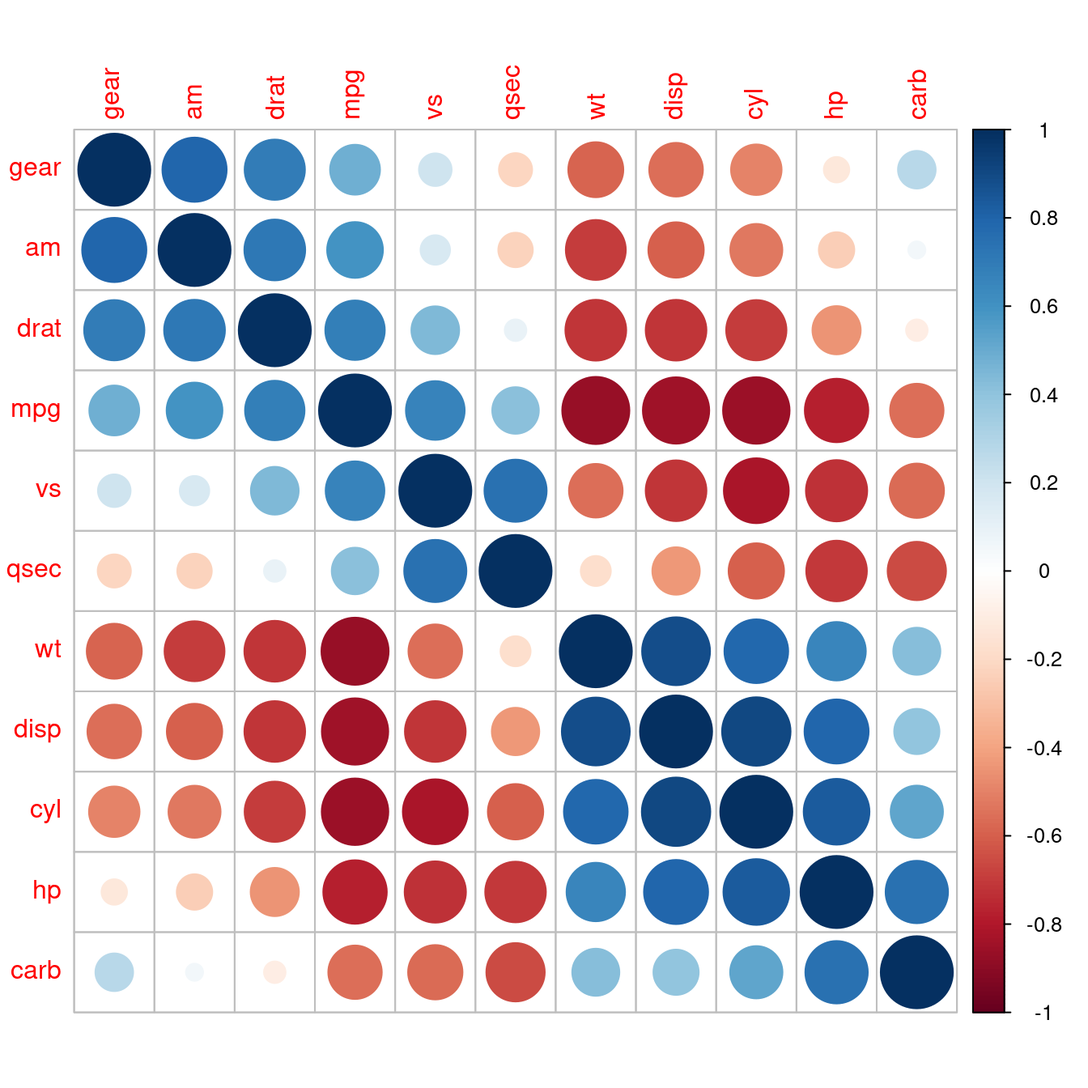
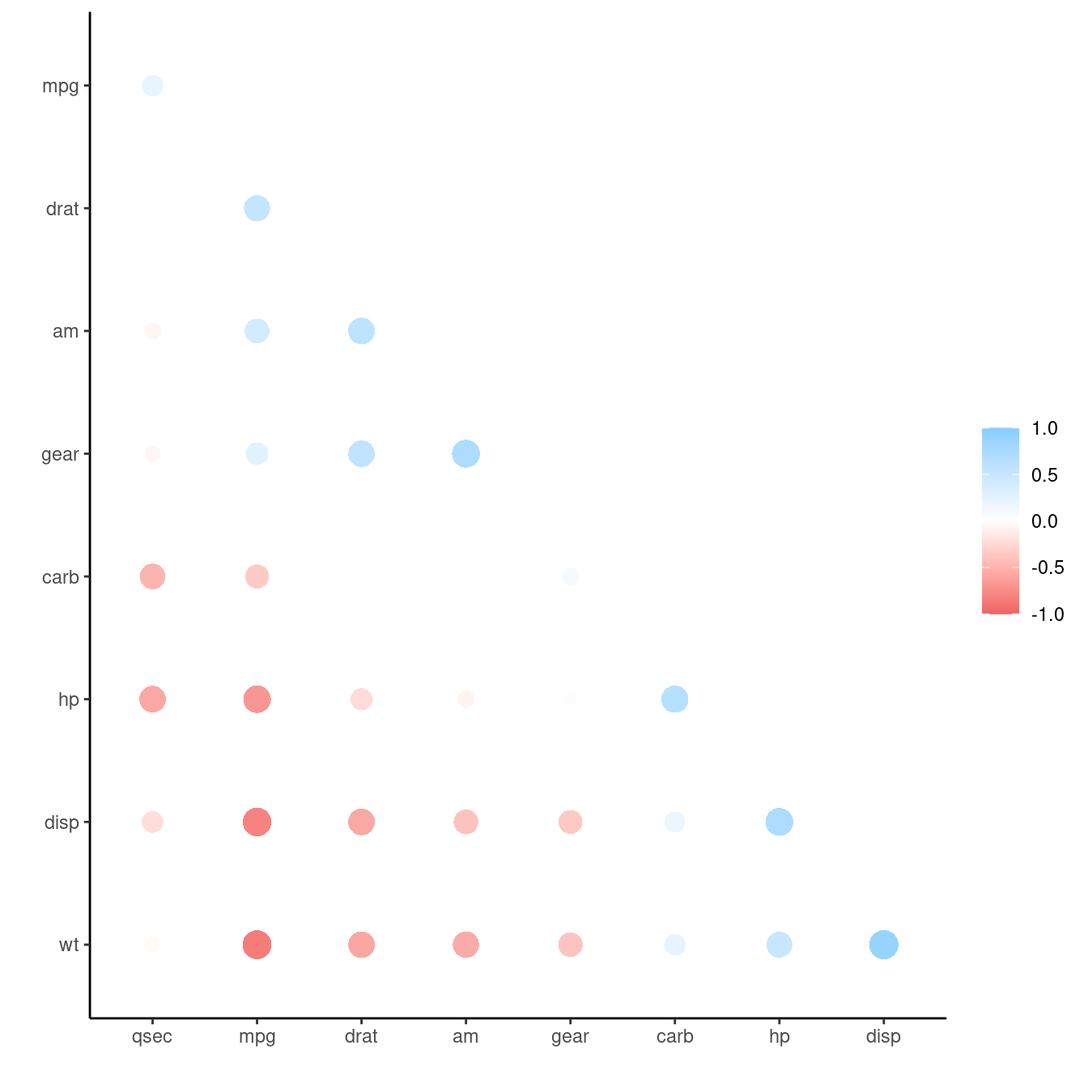
added ggplot2,

diff --git a/docs/correlation_matrix.html b/docs/correlation_matrix.html
@@ -157,8 +157,8 @@ pre > code.sourceCode > span > a:first-child::before { text-decoration: underlin
 <span id="cb3-4"><a href="#cb3-4" aria-hidden="true" tabindex="-1"></a>DT<span class="sc">::</span><span class="fu">datatable</span>(mtcars)</span></code><button title="Copy to Clipboard" class="code-copy-button"><i class="bi"></i></button></pre></div>
 <div class="cell-output-display">
 
-<div class="datatables html-widget html-fill-item-overflow-hidden html-fill-item" id="htmlwidget-3c622cee3f989f68be51" style="width:100%;height:auto;"></div>
-<script type="application/json" data-for="htmlwidget-3c622cee3f989f68be51">{"x":{"filter":"none","vertical":false,"data":[["Mazda RX4","Mazda RX4 Wag","Datsun 710","Hornet 4 Drive","Hornet Sportabout","Valiant","Duster 360","Merc 240D","Merc 230","Merc 280","Merc 280C","Merc 450SE","Merc 450SL","Merc 450SLC","Cadillac Fleetwood","Lincoln Continental","Chrysler Imperial","Fiat 128","Honda Civic","Toyota Corolla","Toyota Corona","Dodge Challenger","AMC Javelin","Camaro Z28","Pontiac Firebird","Fiat X1-9","Porsche 914-2","Lotus Europa","Ford Pantera L","Ferrari Dino","Maserati Bora","Volvo 142E"],[21,21,22.8,21.4,18.7,18.1,14.3,24.4,22.8,19.2,17.8,16.4,17.3,15.2,10.4,10.4,14.7,32.4,30.4,33.9,21.5,15.5,15.2,13.3,19.2,27.3,26,30.4,15.8,19.7,15,21.4],[6,6,4,6,8,6,8,4,4,6,6,8,8,8,8,8,8,4,4,4,4,8,8,8,8,4,4,4,8,6,8,4],[160,160,108,258,360,225,360,146.7,140.8,167.6,167.6,275.8,275.8,275.8,472,460,440,78.7,75.7,71.09999999999999,120.1,318,304,350,400,79,120.3,95.09999999999999,351,145,301,121],[110,110,93,110,175,105,245,62,95,123,123,180,180,180,205,215,230,66,52,65,97,150,150,245,175,66,91,113,264,175,335,109],[3.9,3.9,3.85,3.08,3.15,2.76,3.21,3.69,3.92,3.92,3.92,3.07,3.07,3.07,2.93,3,3.23,4.08,4.93,4.22,3.7,2.76,3.15,3.73,3.08,4.08,4.43,3.77,4.22,3.62,3.54,4.11],[2.62,2.875,2.32,3.215,3.44,3.46,3.57,3.19,3.15,3.44,3.44,4.07,3.73,3.78,5.25,5.424,5.345,2.2,1.615,1.835,2.465,3.52,3.435,3.84,3.845,1.935,2.14,1.513,3.17,2.77,3.57,2.78],[16.46,17.02,18.61,19.44,17.02,20.22,15.84,20,22.9,18.3,18.9,17.4,17.6,18,17.98,17.82,17.42,19.47,18.52,19.9,20.01,16.87,17.3,15.41,17.05,18.9,16.7,16.9,14.5,15.5,14.6,18.6],[0,0,1,1,0,1,0,1,1,1,1,0,0,0,0,0,0,1,1,1,1,0,0,0,0,1,0,1,0,0,0,1],[1,1,1,0,0,0,0,0,0,0,0,0,0,0,0,0,0,1,1,1,0,0,0,0,0,1,1,1,1,1,1,1],[4,4,4,3,3,3,3,4,4,4,4,3,3,3,3,3,3,4,4,4,3,3,3,3,3,4,5,5,5,5,5,4],[4,4,1,1,2,1,4,2,2,4,4,3,3,3,4,4,4,1,2,1,1,2,2,4,2,1,2,2,4,6,8,2]],"container":"<table class=\"display\">\n  <thead>\n    <tr>\n      <th> <\/th>\n      <th>mpg<\/th>\n      <th>cyl<\/th>\n      <th>disp<\/th>\n      <th>hp<\/th>\n      <th>drat<\/th>\n      <th>wt<\/th>\n      <th>qsec<\/th>\n      <th>vs<\/th>\n      <th>am<\/th>\n      <th>gear<\/th>\n      <th>carb<\/th>\n    <\/tr>\n  <\/thead>\n<\/table>","options":{"columnDefs":[{"className":"dt-right","targets":[1,2,3,4,5,6,7,8,9,10,11]},{"orderable":false,"targets":0}],"order":[],"autoWidth":false,"orderClasses":false}},"evals":[],"jsHooks":[]}</script>
+<div class="datatables html-widget html-fill-item-overflow-hidden html-fill-item" id="htmlwidget-ed4ffe098db7ba245312" style="width:100%;height:auto;"></div>
+<script type="application/json" data-for="htmlwidget-ed4ffe098db7ba245312">{"x":{"filter":"none","vertical":false,"data":[["Mazda RX4","Mazda RX4 Wag","Datsun 710","Hornet 4 Drive","Hornet Sportabout","Valiant","Duster 360","Merc 240D","Merc 230","Merc 280","Merc 280C","Merc 450SE","Merc 450SL","Merc 450SLC","Cadillac Fleetwood","Lincoln Continental","Chrysler Imperial","Fiat 128","Honda Civic","Toyota Corolla","Toyota Corona","Dodge Challenger","AMC Javelin","Camaro Z28","Pontiac Firebird","Fiat X1-9","Porsche 914-2","Lotus Europa","Ford Pantera L","Ferrari Dino","Maserati Bora","Volvo 142E"],[21,21,22.8,21.4,18.7,18.1,14.3,24.4,22.8,19.2,17.8,16.4,17.3,15.2,10.4,10.4,14.7,32.4,30.4,33.9,21.5,15.5,15.2,13.3,19.2,27.3,26,30.4,15.8,19.7,15,21.4],[6,6,4,6,8,6,8,4,4,6,6,8,8,8,8,8,8,4,4,4,4,8,8,8,8,4,4,4,8,6,8,4],[160,160,108,258,360,225,360,146.7,140.8,167.6,167.6,275.8,275.8,275.8,472,460,440,78.7,75.7,71.09999999999999,120.1,318,304,350,400,79,120.3,95.09999999999999,351,145,301,121],[110,110,93,110,175,105,245,62,95,123,123,180,180,180,205,215,230,66,52,65,97,150,150,245,175,66,91,113,264,175,335,109],[3.9,3.9,3.85,3.08,3.15,2.76,3.21,3.69,3.92,3.92,3.92,3.07,3.07,3.07,2.93,3,3.23,4.08,4.93,4.22,3.7,2.76,3.15,3.73,3.08,4.08,4.43,3.77,4.22,3.62,3.54,4.11],[2.62,2.875,2.32,3.215,3.44,3.46,3.57,3.19,3.15,3.44,3.44,4.07,3.73,3.78,5.25,5.424,5.345,2.2,1.615,1.835,2.465,3.52,3.435,3.84,3.845,1.935,2.14,1.513,3.17,2.77,3.57,2.78],[16.46,17.02,18.61,19.44,17.02,20.22,15.84,20,22.9,18.3,18.9,17.4,17.6,18,17.98,17.82,17.42,19.47,18.52,19.9,20.01,16.87,17.3,15.41,17.05,18.9,16.7,16.9,14.5,15.5,14.6,18.6],[0,0,1,1,0,1,0,1,1,1,1,0,0,0,0,0,0,1,1,1,1,0,0,0,0,1,0,1,0,0,0,1],[1,1,1,0,0,0,0,0,0,0,0,0,0,0,0,0,0,1,1,1,0,0,0,0,0,1,1,1,1,1,1,1],[4,4,4,3,3,3,3,4,4,4,4,3,3,3,3,3,3,4,4,4,3,3,3,3,3,4,5,5,5,5,5,4],[4,4,1,1,2,1,4,2,2,4,4,3,3,3,4,4,4,1,2,1,1,2,2,4,2,1,2,2,4,6,8,2]],"container":"<table class=\"display\">\n  <thead>\n    <tr>\n      <th> <\/th>\n      <th>mpg<\/th>\n      <th>cyl<\/th>\n      <th>disp<\/th>\n      <th>hp<\/th>\n      <th>drat<\/th>\n      <th>wt<\/th>\n      <th>qsec<\/th>\n      <th>vs<\/th>\n      <th>am<\/th>\n      <th>gear<\/th>\n      <th>carb<\/th>\n    <\/tr>\n  <\/thead>\n<\/table>","options":{"columnDefs":[{"className":"dt-right","targets":[1,2,3,4,5,6,7,8,9,10,11]},{"orderable":false,"targets":0}],"order":[],"autoWidth":false,"orderClasses":false}},"evals":[],"jsHooks":[]}</script>
 </div>
 </div>
 <p>We calcualte a correlation matrix.</p>
@@ -214,24 +214,16 @@ carb -0.55  0.53  0.39  0.75 -0.09  0.43 -0.66 -0.57  0.06  0.27  1.00</code></p
 </div>
 </div>
 </div>
-</section>
-<section id="using-other-seriation-methods" class="level2">
-<h2 class="anchored" data-anchor-id="using-other-seriation-methods">Using other seriation methods</h2>
-<p>We can apply any seriation method for distances to create an order. First, we convert the correlation matrix into a distance matrix using <span class="math inline">\(d_{ij} = \sqrt{1 - m_{ij}}\)</span>. Then we can use the distances for seriation and use the resulting order to rearrange the rows and columns of the correlation matrix.</p>
+<p>The plots are also available in <code>ggplot2</code> versions.</p>
 <div>
-<div class="sourceCode cell-code" id="cb8"><pre class="sourceCode r code-with-copy"><code class="sourceCode r"><span id="cb8-1"><a href="#cb8-1" aria-hidden="true" tabindex="-1"></a>d <span class="ot">&lt;-</span> <span class="fu">as.dist</span>(<span class="fu">sqrt</span>(<span class="dv">1</span> <span class="sc">-</span> m))</span>
+<div class="sourceCode cell-code" id="cb8"><pre class="sourceCode r code-with-copy"><code class="sourceCode r"><span id="cb8-1"><a href="#cb8-1" aria-hidden="true" tabindex="-1"></a><span class="fu">library</span>(<span class="st">"ggplot2"</span>)</span>
 <span id="cb8-2"><a href="#cb8-2" aria-hidden="true" tabindex="-1"></a></span>
-<span id="cb8-3"><a href="#cb8-3" aria-hidden="true" tabindex="-1"></a>o <span class="ot">&lt;-</span> <span class="fu">seriate</span>(d, <span class="st">"MDS"</span>)</span>
-<span id="cb8-4"><a href="#cb8-4" aria-hidden="true" tabindex="-1"></a><span class="fu">pimage</span>(m , <span class="at">order =</span> <span class="fu">c</span>(o, o), <span class="at">main =</span> <span class="st">"MDS"</span>)</span>
-<span id="cb8-5"><a href="#cb8-5" aria-hidden="true" tabindex="-1"></a></span>
-<span id="cb8-6"><a href="#cb8-6" aria-hidden="true" tabindex="-1"></a>o <span class="ot">&lt;-</span> <span class="fu">seriate</span>(d, <span class="st">"ARSA"</span>)</span>
-<span id="cb8-7"><a href="#cb8-7" aria-hidden="true" tabindex="-1"></a><span class="fu">pimage</span>(m , <span class="at">order =</span> <span class="fu">c</span>(o, o), <span class="at">main =</span> <span class="st">"ARSA"</span>)</span>
-<span id="cb8-8"><a href="#cb8-8" aria-hidden="true" tabindex="-1"></a></span>
-<span id="cb8-9"><a href="#cb8-9" aria-hidden="true" tabindex="-1"></a>o <span class="ot">&lt;-</span> <span class="fu">seriate</span>(d, <span class="st">"OLO"</span>)</span>
-<span id="cb8-10"><a href="#cb8-10" aria-hidden="true" tabindex="-1"></a><span class="fu">pimage</span>(m , <span class="at">order =</span> <span class="fu">c</span>(o, o), <span class="at">main =</span> <span class="st">"OLO"</span>)</span>
-<span id="cb8-11"><a href="#cb8-11" aria-hidden="true" tabindex="-1"></a></span>
-<span id="cb8-12"><a href="#cb8-12" aria-hidden="true" tabindex="-1"></a>o <span class="ot">&lt;-</span> <span class="fu">seriate</span>(d, <span class="st">"R2E"</span>)</span>
-<span id="cb8-13"><a href="#cb8-13" aria-hidden="true" tabindex="-1"></a><span class="fu">pimage</span>(m , <span class="at">order =</span> <span class="fu">c</span>(o, o), <span class="at">main =</span> <span class="st">"R2E"</span>)</span></code><button title="Copy to Clipboard" class="code-copy-button"><i class="bi"></i></button></pre></div>
+<span id="cb8-3"><a href="#cb8-3" aria-hidden="true" tabindex="-1"></a><span class="fu">ggpimage</span>(m, <span class="at">order =</span> <span class="st">"AOE"</span>, <span class="at">diag =</span> <span class="cn">FALSE</span>, <span class="at">upper_tri =</span> <span class="cn">FALSE</span>)</span>
+<span id="cb8-4"><a href="#cb8-4" aria-hidden="true" tabindex="-1"></a><span class="fu">ggpimage</span>(m, <span class="at">order =</span> <span class="st">"AOE"</span>) <span class="sc">+</span> <span class="fu">scale_fill_gradient2</span>(<span class="at">low =</span> <span class="st">"red"</span>, <span class="at">high =</span> <span class="st">"darkgreen"</span>)</span></code><button title="Copy to Clipboard" class="code-copy-button"><i class="bi"></i></button></pre></div>
+<div class="cell-output cell-output-stderr">
+<pre><code>Scale for fill is already present.
+Adding another scale for fill, which will replace the existing scale.</code></pre>
+</div>
 <div class="cell quarto-layout-panel" data-fig.asp="1">
 <div class="quarto-layout-row quarto-layout-valign-top">
 <div class="cell-output-display quarto-layout-cell" style="flex-basis: 50.0%;justify-content: center;">
@@ -241,12 +233,41 @@ carb -0.55  0.53  0.39  0.75 -0.09  0.43 -0.66 -0.57  0.06  0.27  1.00</code></p
 <p><img src="correlation_matrix_files/figure-html/unnamed-chunk-5-2.png" class="img-fluid"></p>
 </div>
 </div>
+</div>
+</div>
+</section>
+<section id="using-other-seriation-methods" class="level2">
+<h2 class="anchored" data-anchor-id="using-other-seriation-methods">Using other seriation methods</h2>
+<p>We can apply any seriation method for distances to create an order. First, we convert the correlation matrix into a distance matrix using <span class="math inline">\(d_{ij} = \sqrt{1 - m_{ij}}\)</span>. Then we can use the distances for seriation and use the resulting order to rearrange the rows and columns of the correlation matrix.</p>
+<div>
+<div class="sourceCode cell-code" id="cb10"><pre class="sourceCode r code-with-copy"><code class="sourceCode r"><span id="cb10-1"><a href="#cb10-1" aria-hidden="true" tabindex="-1"></a>d <span class="ot">&lt;-</span> <span class="fu">as.dist</span>(<span class="fu">sqrt</span>(<span class="dv">1</span> <span class="sc">-</span> m))</span>
+<span id="cb10-2"><a href="#cb10-2" aria-hidden="true" tabindex="-1"></a></span>
+<span id="cb10-3"><a href="#cb10-3" aria-hidden="true" tabindex="-1"></a>o <span class="ot">&lt;-</span> <span class="fu">seriate</span>(d, <span class="st">"MDS"</span>)</span>
+<span id="cb10-4"><a href="#cb10-4" aria-hidden="true" tabindex="-1"></a><span class="fu">pimage</span>(m , <span class="at">order =</span> <span class="fu">c</span>(o, o), <span class="at">main =</span> <span class="st">"MDS"</span>)</span>
+<span id="cb10-5"><a href="#cb10-5" aria-hidden="true" tabindex="-1"></a></span>
+<span id="cb10-6"><a href="#cb10-6" aria-hidden="true" tabindex="-1"></a>o <span class="ot">&lt;-</span> <span class="fu">seriate</span>(d, <span class="st">"ARSA"</span>)</span>
+<span id="cb10-7"><a href="#cb10-7" aria-hidden="true" tabindex="-1"></a><span class="fu">pimage</span>(m , <span class="at">order =</span> <span class="fu">c</span>(o, o), <span class="at">main =</span> <span class="st">"ARSA"</span>)</span>
+<span id="cb10-8"><a href="#cb10-8" aria-hidden="true" tabindex="-1"></a></span>
+<span id="cb10-9"><a href="#cb10-9" aria-hidden="true" tabindex="-1"></a>o <span class="ot">&lt;-</span> <span class="fu">seriate</span>(d, <span class="st">"OLO"</span>)</span>
+<span id="cb10-10"><a href="#cb10-10" aria-hidden="true" tabindex="-1"></a><span class="fu">pimage</span>(m , <span class="at">order =</span> <span class="fu">c</span>(o, o), <span class="at">main =</span> <span class="st">"OLO"</span>)</span>
+<span id="cb10-11"><a href="#cb10-11" aria-hidden="true" tabindex="-1"></a></span>
+<span id="cb10-12"><a href="#cb10-12" aria-hidden="true" tabindex="-1"></a>o <span class="ot">&lt;-</span> <span class="fu">seriate</span>(d, <span class="st">"R2E"</span>)</span>
+<span id="cb10-13"><a href="#cb10-13" aria-hidden="true" tabindex="-1"></a><span class="fu">pimage</span>(m , <span class="at">order =</span> <span class="fu">c</span>(o, o), <span class="at">main =</span> <span class="st">"R2E"</span>)</span></code><button title="Copy to Clipboard" class="code-copy-button"><i class="bi"></i></button></pre></div>
+<div class="cell quarto-layout-panel" data-fig.asp="1">
 <div class="quarto-layout-row quarto-layout-valign-top">
 <div class="cell-output-display quarto-layout-cell" style="flex-basis: 50.0%;justify-content: center;">
-<p><img src="correlation_matrix_files/figure-html/unnamed-chunk-5-3.png" class="img-fluid"></p>
+<p><img src="correlation_matrix_files/figure-html/unnamed-chunk-6-1.png" class="img-fluid"></p>
 </div>
 <div class="cell-output-display quarto-layout-cell" style="flex-basis: 50.0%;justify-content: center;">
-<p><img src="correlation_matrix_files/figure-html/unnamed-chunk-5-4.png" class="img-fluid"></p>
+<p><img src="correlation_matrix_files/figure-html/unnamed-chunk-6-2.png" class="img-fluid"></p>
+</div>
+</div>
+<div class="quarto-layout-row quarto-layout-valign-top">
+<div class="cell-output-display quarto-layout-cell" style="flex-basis: 50.0%;justify-content: center;">
+<p><img src="correlation_matrix_files/figure-html/unnamed-chunk-6-3.png" class="img-fluid"></p>
+</div>
+<div class="cell-output-display quarto-layout-cell" style="flex-basis: 50.0%;justify-content: center;">
+<p><img src="correlation_matrix_files/figure-html/unnamed-chunk-6-4.png" class="img-fluid"></p>
 </div>
 </div>
 </div>
@@ -259,21 +280,21 @@ carb -0.55  0.53  0.39  0.75 -0.09  0.43 -0.66 -0.57  0.06  0.27  1.00</code></p
 <h3 class="anchored" data-anchor-id="package-corrgram">Package corrgram</h3>
 <p>The order argument in <a href="https://kwstat.github.io/corrgram/">corrgram</a> accepts methods from package seriation.</p>
 <div>
-<div class="sourceCode cell-code" id="cb9"><pre class="sourceCode r code-with-copy"><code class="sourceCode r"><span id="cb9-1"><a href="#cb9-1" aria-hidden="true" tabindex="-1"></a><span class="cf">if</span> (<span class="sc">!</span><span class="fu">require</span>(<span class="st">"corrgram"</span>)) <span class="fu">install.packages</span>(<span class="st">"corrgram"</span>)</span></code><button title="Copy to Clipboard" class="code-copy-button"><i class="bi"></i></button></pre></div>
+<div class="sourceCode cell-code" id="cb11"><pre class="sourceCode r code-with-copy"><code class="sourceCode r"><span id="cb11-1"><a href="#cb11-1" aria-hidden="true" tabindex="-1"></a><span class="cf">if</span> (<span class="sc">!</span><span class="fu">require</span>(<span class="st">"corrgram"</span>)) <span class="fu">install.packages</span>(<span class="st">"corrgram"</span>)</span></code><button title="Copy to Clipboard" class="code-copy-button"><i class="bi"></i></button></pre></div>
 <div class="cell-output cell-output-stderr">
 <pre><code>Loading required package: corrgram</code></pre>
 </div>
-<div class="sourceCode cell-code" id="cb11"><pre class="sourceCode r code-with-copy"><code class="sourceCode r"><span id="cb11-1"><a href="#cb11-1" aria-hidden="true" tabindex="-1"></a><span class="fu">library</span>(<span class="st">"corrgram"</span>)</span>
-<span id="cb11-2"><a href="#cb11-2" aria-hidden="true" tabindex="-1"></a></span>
-<span id="cb11-3"><a href="#cb11-3" aria-hidden="true" tabindex="-1"></a><span class="fu">corrgram</span>(m, <span class="at">order =</span> <span class="st">"OLO"</span>)</span>
-<span id="cb11-4"><a href="#cb11-4" aria-hidden="true" tabindex="-1"></a><span class="fu">corrgram</span>(m, <span class="at">order =</span> <span class="st">"OLO"</span>, <span class="at">lower.panel=</span>panel.shade, <span class="at">upper.panel=</span>panel.pie)</span></code><button title="Copy to Clipboard" class="code-copy-button"><i class="bi"></i></button></pre></div>
+<div class="sourceCode cell-code" id="cb13"><pre class="sourceCode r code-with-copy"><code class="sourceCode r"><span id="cb13-1"><a href="#cb13-1" aria-hidden="true" tabindex="-1"></a><span class="fu">library</span>(<span class="st">"corrgram"</span>)</span>
+<span id="cb13-2"><a href="#cb13-2" aria-hidden="true" tabindex="-1"></a></span>
+<span id="cb13-3"><a href="#cb13-3" aria-hidden="true" tabindex="-1"></a><span class="fu">corrgram</span>(m, <span class="at">order =</span> <span class="st">"OLO"</span>)</span>
+<span id="cb13-4"><a href="#cb13-4" aria-hidden="true" tabindex="-1"></a><span class="fu">corrgram</span>(m, <span class="at">order =</span> <span class="st">"OLO"</span>, <span class="at">lower.panel=</span>panel.shade, <span class="at">upper.panel=</span>panel.pie)</span></code><button title="Copy to Clipboard" class="code-copy-button"><i class="bi"></i></button></pre></div>
 <div class="cell quarto-layout-panel" data-fig.asp="1">
 <div class="quarto-layout-row quarto-layout-valign-top">
 <div class="cell-output-display quarto-layout-cell" style="flex-basis: 50.0%;justify-content: center;">
-<p><img src="correlation_matrix_files/figure-html/unnamed-chunk-6-1.png" class="img-fluid"></p>
+<p><img src="correlation_matrix_files/figure-html/unnamed-chunk-7-1.png" class="img-fluid"></p>
 </div>
 <div class="cell-output-display quarto-layout-cell" style="flex-basis: 50.0%;justify-content: center;">
-<p><img src="correlation_matrix_files/figure-html/unnamed-chunk-6-2.png" class="img-fluid"></p>
+<p><img src="correlation_matrix_files/figure-html/unnamed-chunk-7-2.png" class="img-fluid"></p>
 </div>
 </div>
 </div>
@@ -283,27 +304,27 @@ carb -0.55  0.53  0.39  0.75 -0.09  0.43 -0.66 -0.57  0.06  0.27  1.00</code></p
 <h3 class="anchored" data-anchor-id="package-corrr">Package corrr</h3>
 <p>The function <code>rearrange()</code> in package <a href="https://corrr.tidymodels.org/">corrr</a> accepts some methods from seriation. Here is a complete example that uses method <code>"R2E"</code>.</p>
 <div class="cell" data-layout-align="center" data-fig.asp="1">
-<div class="sourceCode cell-code" id="cb12"><pre class="sourceCode r code-with-copy"><code class="sourceCode r"><span id="cb12-1"><a href="#cb12-1" aria-hidden="true" tabindex="-1"></a><span class="cf">if</span> (<span class="sc">!</span><span class="fu">require</span>(<span class="st">"corrr"</span>)) <span class="fu">install.packages</span>(<span class="st">"corrr"</span>)</span></code><button title="Copy to Clipboard" class="code-copy-button"><i class="bi"></i></button></pre></div>
+<div class="sourceCode cell-code" id="cb14"><pre class="sourceCode r code-with-copy"><code class="sourceCode r"><span id="cb14-1"><a href="#cb14-1" aria-hidden="true" tabindex="-1"></a><span class="cf">if</span> (<span class="sc">!</span><span class="fu">require</span>(<span class="st">"corrr"</span>)) <span class="fu">install.packages</span>(<span class="st">"corrr"</span>)</span></code><button title="Copy to Clipboard" class="code-copy-button"><i class="bi"></i></button></pre></div>
 <div class="cell-output cell-output-stderr">
 <pre><code>Loading required package: corrr</code></pre>
 </div>
-<div class="sourceCode cell-code" id="cb14"><pre class="sourceCode r code-with-copy"><code class="sourceCode r"><span id="cb14-1"><a href="#cb14-1" aria-hidden="true" tabindex="-1"></a><span class="fu">library</span>(<span class="st">"corrr"</span>)</span>
-<span id="cb14-2"><a href="#cb14-2" aria-hidden="true" tabindex="-1"></a></span>
-<span id="cb14-3"><a href="#cb14-3" aria-hidden="true" tabindex="-1"></a>x <span class="ot">&lt;-</span> datasets<span class="sc">::</span>mtcars <span class="sc">|&gt;</span></span>
-<span id="cb14-4"><a href="#cb14-4" aria-hidden="true" tabindex="-1"></a>       <span class="fu">correlate</span>() <span class="sc">|&gt;</span>   </span>
-<span id="cb14-5"><a href="#cb14-5" aria-hidden="true" tabindex="-1"></a>       <span class="fu">focus</span>(<span class="sc">-</span>cyl, <span class="sc">-</span>vs, <span class="at">mirror =</span> <span class="cn">TRUE</span>) <span class="sc">|&gt;</span>  <span class="co"># remove 'cyl' and 'vs'</span></span>
-<span id="cb14-6"><a href="#cb14-6" aria-hidden="true" tabindex="-1"></a>       <span class="fu">rearrange</span>(<span class="at">method =</span> <span class="st">"R2E"</span>) <span class="sc">|&gt;</span>  </span>
-<span id="cb14-7"><a href="#cb14-7" aria-hidden="true" tabindex="-1"></a>       <span class="fu">shave</span>()</span></code><button title="Copy to Clipboard" class="code-copy-button"><i class="bi"></i></button></pre></div>
+<div class="sourceCode cell-code" id="cb16"><pre class="sourceCode r code-with-copy"><code class="sourceCode r"><span id="cb16-1"><a href="#cb16-1" aria-hidden="true" tabindex="-1"></a><span class="fu">library</span>(<span class="st">"corrr"</span>)</span>
+<span id="cb16-2"><a href="#cb16-2" aria-hidden="true" tabindex="-1"></a></span>
+<span id="cb16-3"><a href="#cb16-3" aria-hidden="true" tabindex="-1"></a>x <span class="ot">&lt;-</span> datasets<span class="sc">::</span>mtcars <span class="sc">|&gt;</span></span>
+<span id="cb16-4"><a href="#cb16-4" aria-hidden="true" tabindex="-1"></a>       <span class="fu">correlate</span>() <span class="sc">|&gt;</span>   </span>
+<span id="cb16-5"><a href="#cb16-5" aria-hidden="true" tabindex="-1"></a>       <span class="fu">focus</span>(<span class="sc">-</span>cyl, <span class="sc">-</span>vs, <span class="at">mirror =</span> <span class="cn">TRUE</span>) <span class="sc">|&gt;</span>  <span class="co"># remove 'cyl' and 'vs'</span></span>
+<span id="cb16-6"><a href="#cb16-6" aria-hidden="true" tabindex="-1"></a>       <span class="fu">rearrange</span>(<span class="at">method =</span> <span class="st">"R2E"</span>) <span class="sc">|&gt;</span>  </span>
+<span id="cb16-7"><a href="#cb16-7" aria-hidden="true" tabindex="-1"></a>       <span class="fu">shave</span>()</span></code><button title="Copy to Clipboard" class="code-copy-button"><i class="bi"></i></button></pre></div>
 <div class="cell-output cell-output-stderr">
 <pre><code>Correlation computed with
 • Method: 'pearson'
 • Missing treated using: 'pairwise.complete.obs'</code></pre>
 </div>
-<div class="sourceCode cell-code" id="cb16"><pre class="sourceCode r code-with-copy"><code class="sourceCode r"><span id="cb16-1"><a href="#cb16-1" aria-hidden="true" tabindex="-1"></a><span class="fu">rplot</span>(x)</span></code><button title="Copy to Clipboard" class="code-copy-button"><i class="bi"></i></button></pre></div>
+<div class="sourceCode cell-code" id="cb18"><pre class="sourceCode r code-with-copy"><code class="sourceCode r"><span id="cb18-1"><a href="#cb18-1" aria-hidden="true" tabindex="-1"></a><span class="fu">rplot</span>(x)</span></code><button title="Copy to Clipboard" class="code-copy-button"><i class="bi"></i></button></pre></div>
 <div class="cell-output-display">
 <div class="quarto-figure quarto-figure-center">
 <figure class="figure">
-<p><img src="correlation_matrix_files/figure-html/unnamed-chunk-7-1.png" class="img-fluid figure-img" style="width:50.0%"></p>
+<p><img src="correlation_matrix_files/figure-html/unnamed-chunk-8-1.png" class="img-fluid figure-img" style="width:50.0%"></p>
 </figure>
 </div>
 </div>
@@ -313,24 +334,24 @@ carb -0.55  0.53  0.39  0.75 -0.09  0.43 -0.66 -0.57  0.06  0.27  1.00</code></p
 <h3 class="anchored" data-anchor-id="package-corrplot">Package corrplot</h3>
 <p>Package <a href="https://github.com/taiyun/corrplot">corrplot</a> offers many visualization methods. Orders from package seriation can be used by permuting the correlation matrix before it is passed to <code>corrplot()</code>.</p>
 <div class="cell" data-layout-align="center" data-fig.asp="1">
-<div class="sourceCode cell-code" id="cb17"><pre class="sourceCode r code-with-copy"><code class="sourceCode r"><span id="cb17-1"><a href="#cb17-1" aria-hidden="true" tabindex="-1"></a><span class="cf">if</span> (<span class="sc">!</span><span class="fu">require</span>(<span class="st">"corrplot"</span>)) <span class="fu">install.packages</span>(<span class="st">"corrplot"</span>)</span></code><button title="Copy to Clipboard" class="code-copy-button"><i class="bi"></i></button></pre></div>
+<div class="sourceCode cell-code" id="cb19"><pre class="sourceCode r code-with-copy"><code class="sourceCode r"><span id="cb19-1"><a href="#cb19-1" aria-hidden="true" tabindex="-1"></a><span class="cf">if</span> (<span class="sc">!</span><span class="fu">require</span>(<span class="st">"corrplot"</span>)) <span class="fu">install.packages</span>(<span class="st">"corrplot"</span>)</span></code><button title="Copy to Clipboard" class="code-copy-button"><i class="bi"></i></button></pre></div>
 <div class="cell-output cell-output-stderr">
 <pre><code>Loading required package: corrplot</code></pre>
 </div>
 <div class="cell-output cell-output-stderr">
 <pre><code>corrplot 0.92 loaded</code></pre>
 </div>
-<div class="sourceCode cell-code" id="cb20"><pre class="sourceCode r code-with-copy"><code class="sourceCode r"><span id="cb20-1"><a href="#cb20-1" aria-hidden="true" tabindex="-1"></a><span class="fu">library</span>(<span class="st">"corrplot"</span>)</span>
-<span id="cb20-2"><a href="#cb20-2" aria-hidden="true" tabindex="-1"></a></span>
-<span id="cb20-3"><a href="#cb20-3" aria-hidden="true" tabindex="-1"></a>d <span class="ot">&lt;-</span> <span class="fu">as.dist</span>(<span class="fu">sqrt</span>(<span class="dv">1</span> <span class="sc">-</span> m))</span>
-<span id="cb20-4"><a href="#cb20-4" aria-hidden="true" tabindex="-1"></a>o <span class="ot">&lt;-</span> <span class="fu">seriate</span>(d, <span class="st">"R2E"</span>)</span>
-<span id="cb20-5"><a href="#cb20-5" aria-hidden="true" tabindex="-1"></a>m_R2E <span class="ot">&lt;-</span> <span class="fu">permute</span>(m, <span class="fu">c</span>(o,o))</span>
-<span id="cb20-6"><a href="#cb20-6" aria-hidden="true" tabindex="-1"></a></span>
-<span id="cb20-7"><a href="#cb20-7" aria-hidden="true" tabindex="-1"></a><span class="fu">corrplot</span>(m_R2E , <span class="at">order =</span> <span class="st">"original"</span>)</span></code><button title="Copy to Clipboard" class="code-copy-button"><i class="bi"></i></button></pre></div>
+<div class="sourceCode cell-code" id="cb22"><pre class="sourceCode r code-with-copy"><code class="sourceCode r"><span id="cb22-1"><a href="#cb22-1" aria-hidden="true" tabindex="-1"></a><span class="fu">library</span>(<span class="st">"corrplot"</span>)</span>
+<span id="cb22-2"><a href="#cb22-2" aria-hidden="true" tabindex="-1"></a></span>
+<span id="cb22-3"><a href="#cb22-3" aria-hidden="true" tabindex="-1"></a>d <span class="ot">&lt;-</span> <span class="fu">as.dist</span>(<span class="fu">sqrt</span>(<span class="dv">1</span> <span class="sc">-</span> m))</span>
+<span id="cb22-4"><a href="#cb22-4" aria-hidden="true" tabindex="-1"></a>o <span class="ot">&lt;-</span> <span class="fu">seriate</span>(d, <span class="st">"R2E"</span>)</span>
+<span id="cb22-5"><a href="#cb22-5" aria-hidden="true" tabindex="-1"></a>m_R2E <span class="ot">&lt;-</span> <span class="fu">permute</span>(m, <span class="fu">c</span>(o,o))</span>
+<span id="cb22-6"><a href="#cb22-6" aria-hidden="true" tabindex="-1"></a></span>
+<span id="cb22-7"><a href="#cb22-7" aria-hidden="true" tabindex="-1"></a><span class="fu">corrplot</span>(m_R2E , <span class="at">order =</span> <span class="st">"original"</span>)</span></code><button title="Copy to Clipboard" class="code-copy-button"><i class="bi"></i></button></pre></div>
 <div class="cell-output-display">
 <div class="quarto-figure quarto-figure-center">
 <figure class="figure">
-<p><img src="correlation_matrix_files/figure-html/unnamed-chunk-8-1.png" class="img-fluid figure-img" style="width:50.0%"></p>
+<p><img src="correlation_matrix_files/figure-html/unnamed-chunk-9-1.png" class="img-fluid figure-img" style="width:50.0%"></p>
 </figure>
 </div>
 </div>
@@ -341,8 +362,8 @@ carb -0.55  0.53  0.39  0.75 -0.09  0.43 -0.66 -0.57  0.06  0.27  1.00</code></p
 <h2 class="anchored" data-anchor-id="references">References</h2>
 <ul>
 <li>Michael Hahsler, Kurt Hornik and Christian Buchta, <a href="http://dx.doi.org/10.18637/jss.v025.i03">Getting Things in Order: An Introduction to the R Package seriation,</a> <em>Journal of Statistical Software,</em> 25(3), 2008. DOI: 10.18637/jss.v025.i03</li>
+<li>Friendly, M. (2002): Corrgrams: Exploratory Displays for Correlation Matrices. , (4), 316–324. DOI: 10.1198/000313002533</li>
 </ul>
-<p>Friendly, M. (2002): Corrgrams: Exploratory Displays for Correlation Matrices. , (4), 316–324. DOI: 10.1198/000313002533</p>
 </section>
 </section>
 
